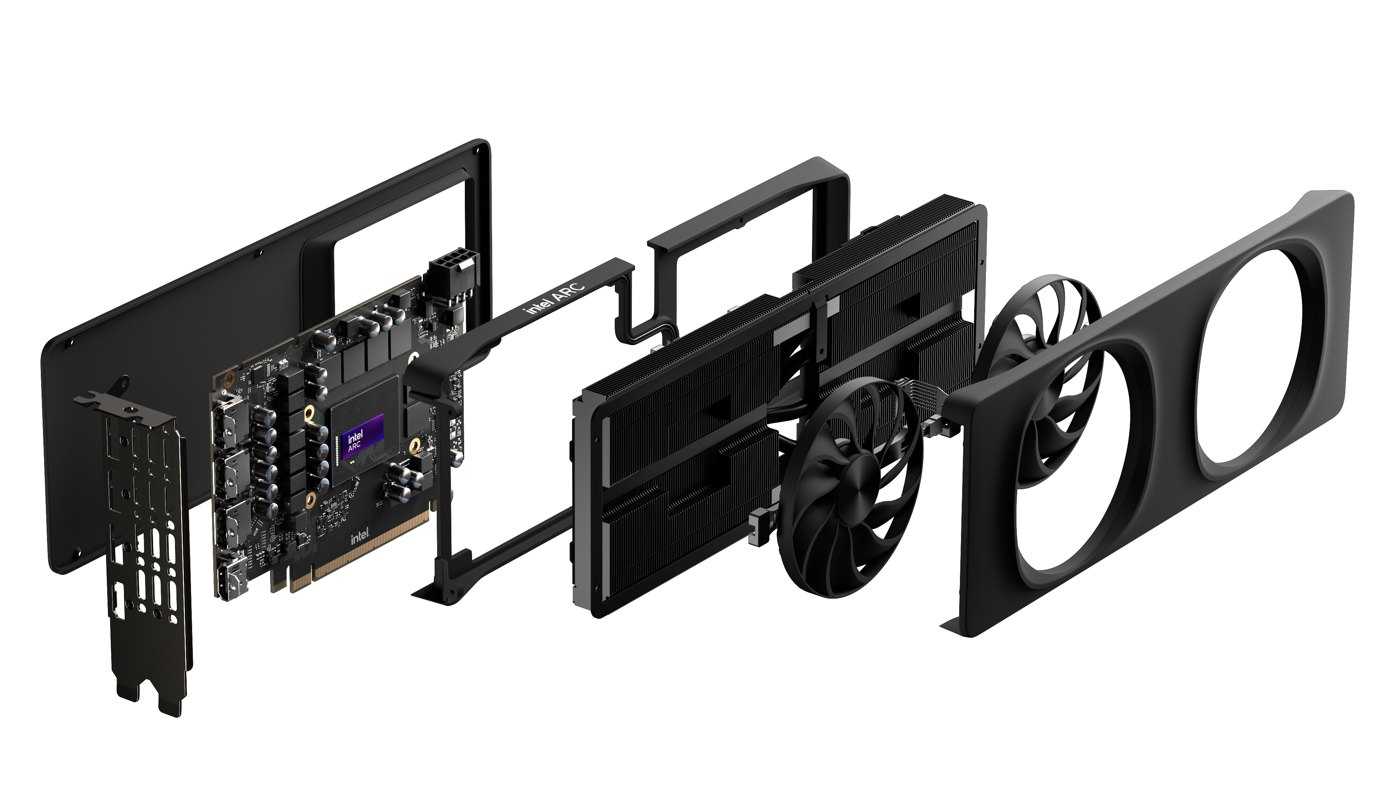
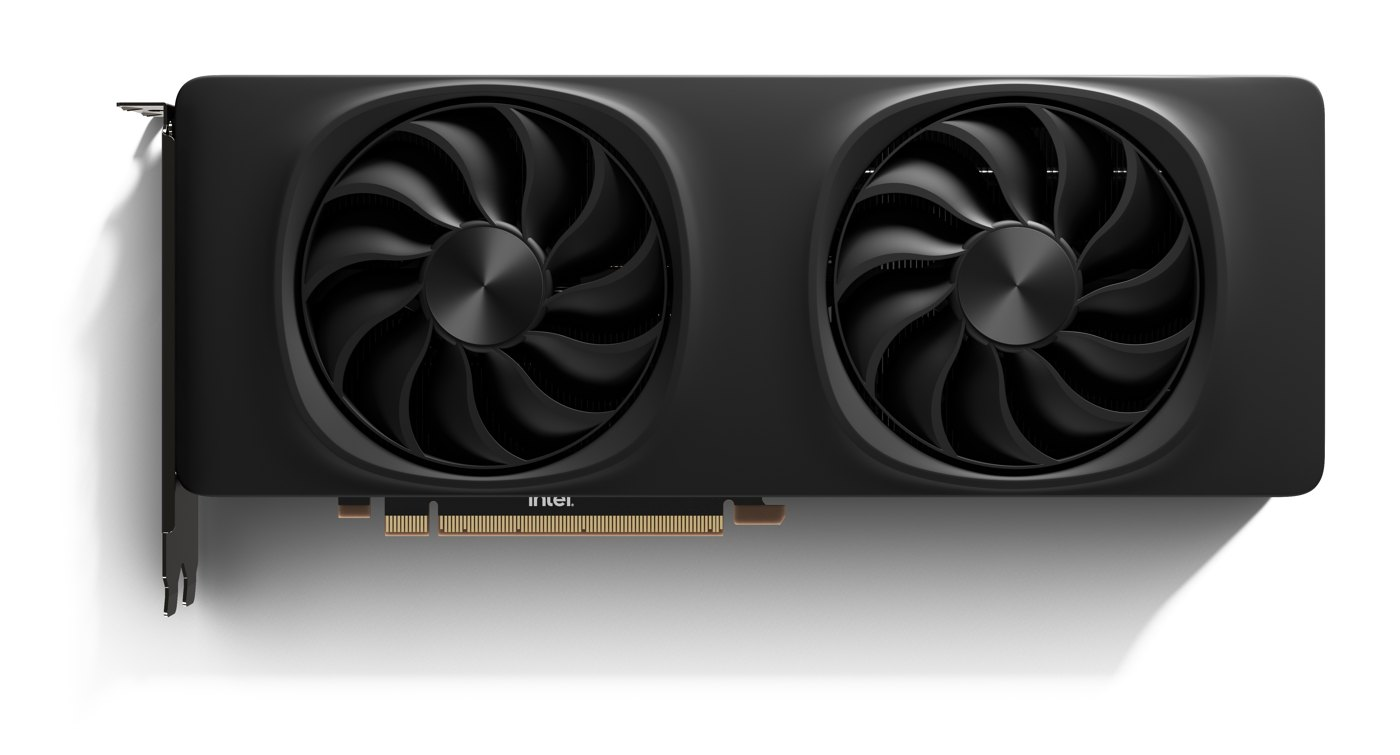
Use a different Intel press photo of the B580

diff --git a/README.md b/README.md
@@ -10,7 +10,7 @@ Fix commit: [`c3e1867`](https://github.com/intel/media-driver/commit/c3e1867d6de
 Debian 13 ships `intel-media-va-driver-non-free 25.2.3`, which predates the fix.
 This repo backports it as a clean quilt patch on Debian's own source package.
 
-![Intel Arc B580 Limited Edition, exploded view](docs/img/intel-arc-b580-press.jpg)
+![Intel Arc B580 Limited Edition](docs/img/intel-arc-b580-press.jpg)
 
 <sub>Intel Arc B580 Limited Edition. Photo © Intel Corporation, from Intel's newsroom press kit for the Arc B-Series launch (Dec 2024), reproduced with credit. Not covered by the terms in NOTICE.</sub>
 
